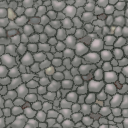
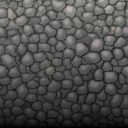
updated random map string and have test texture in forest theme

diff --git a/src/uiMenus.java b/src/uiMenus.java
@@ -191,7 +191,7 @@ public class uiMenus {
                                 selectedMenu = MENU_MAIN;
                             }
                         },
-                        new uiMenuItem("MAP [<random map>]"){
+                        new uiMenuItem("MAP [random]"){
                             public void doItem() {
                                 selectedMenu = MENU_MAP;
                             }
@@ -207,7 +207,7 @@ public class uiMenus {
             public void refresh() {
                 setMenuItemTexts(new String[]{
                         "-Start-",
-                        String.format("Map [%s]", eManager.mapSelectionIndex < 0 ? "<random map>"
+                        String.format("Map [%s]", eManager.mapSelectionIndex < 0 ? "random"
                                 : eManager.mapsFileSelection[eManager.mapSelectionIndex]),
                         String.format("Number of Bots [%d]", sSettings.botCount),
                 });
@@ -441,10 +441,10 @@ public class uiMenus {
 
     private static uiMenuItem[] getMapMenuItems() {
         uiMenuItem[] items = new uiMenuItem[]{
-            new uiMenuItem("<random map>") {
+            new uiMenuItem("random") {
                 public void doItem() {
                     eManager.mapSelectionIndex = -1;
-                    menuSelection[MENU_NEWGAME].items[1].text = "MAP [<random map>]";
+                    menuSelection[MENU_NEWGAME].items[1].text = "MAP [random]";
                     selectedMenu = MENU_NEWGAME;
                 }
             }
